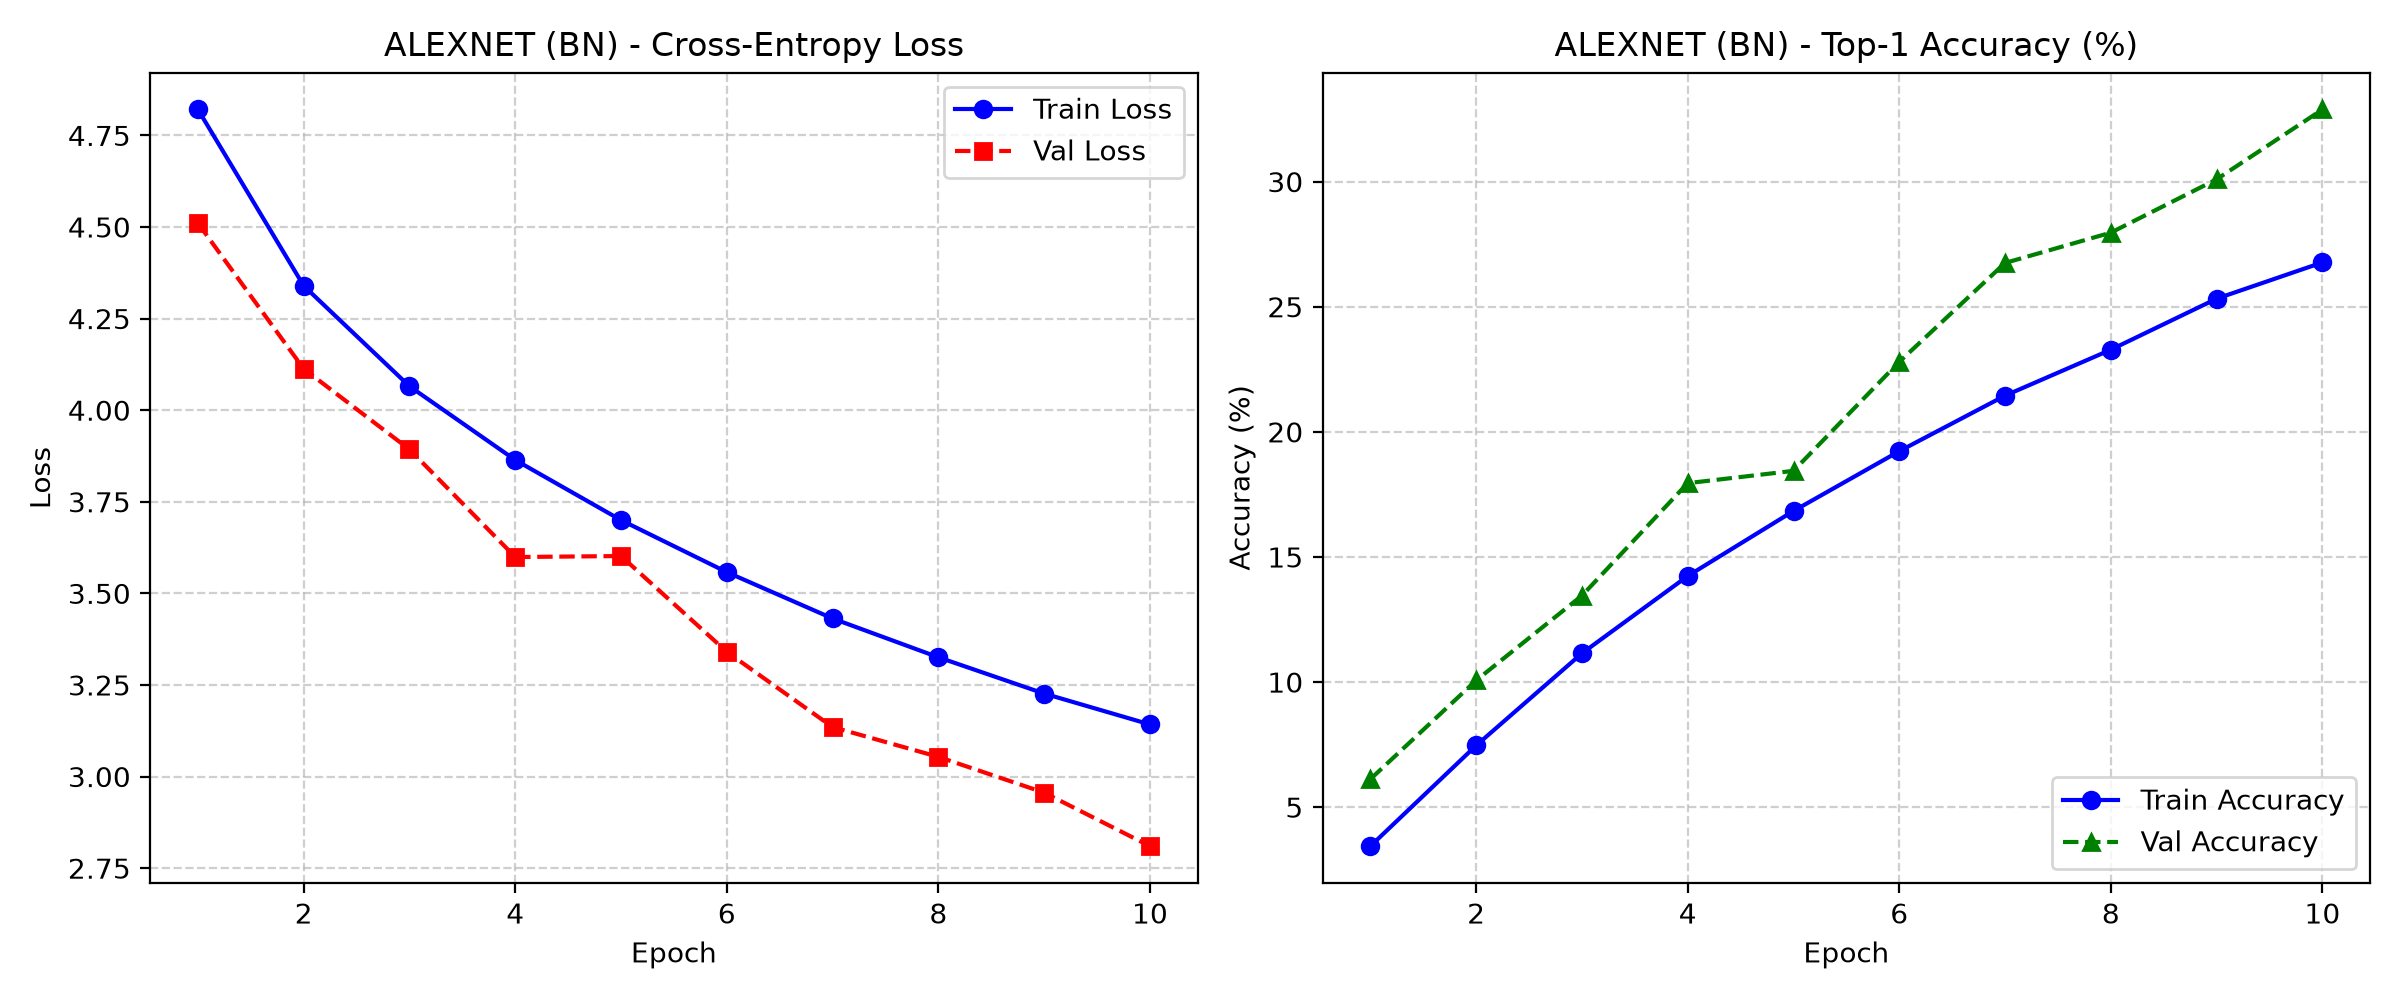
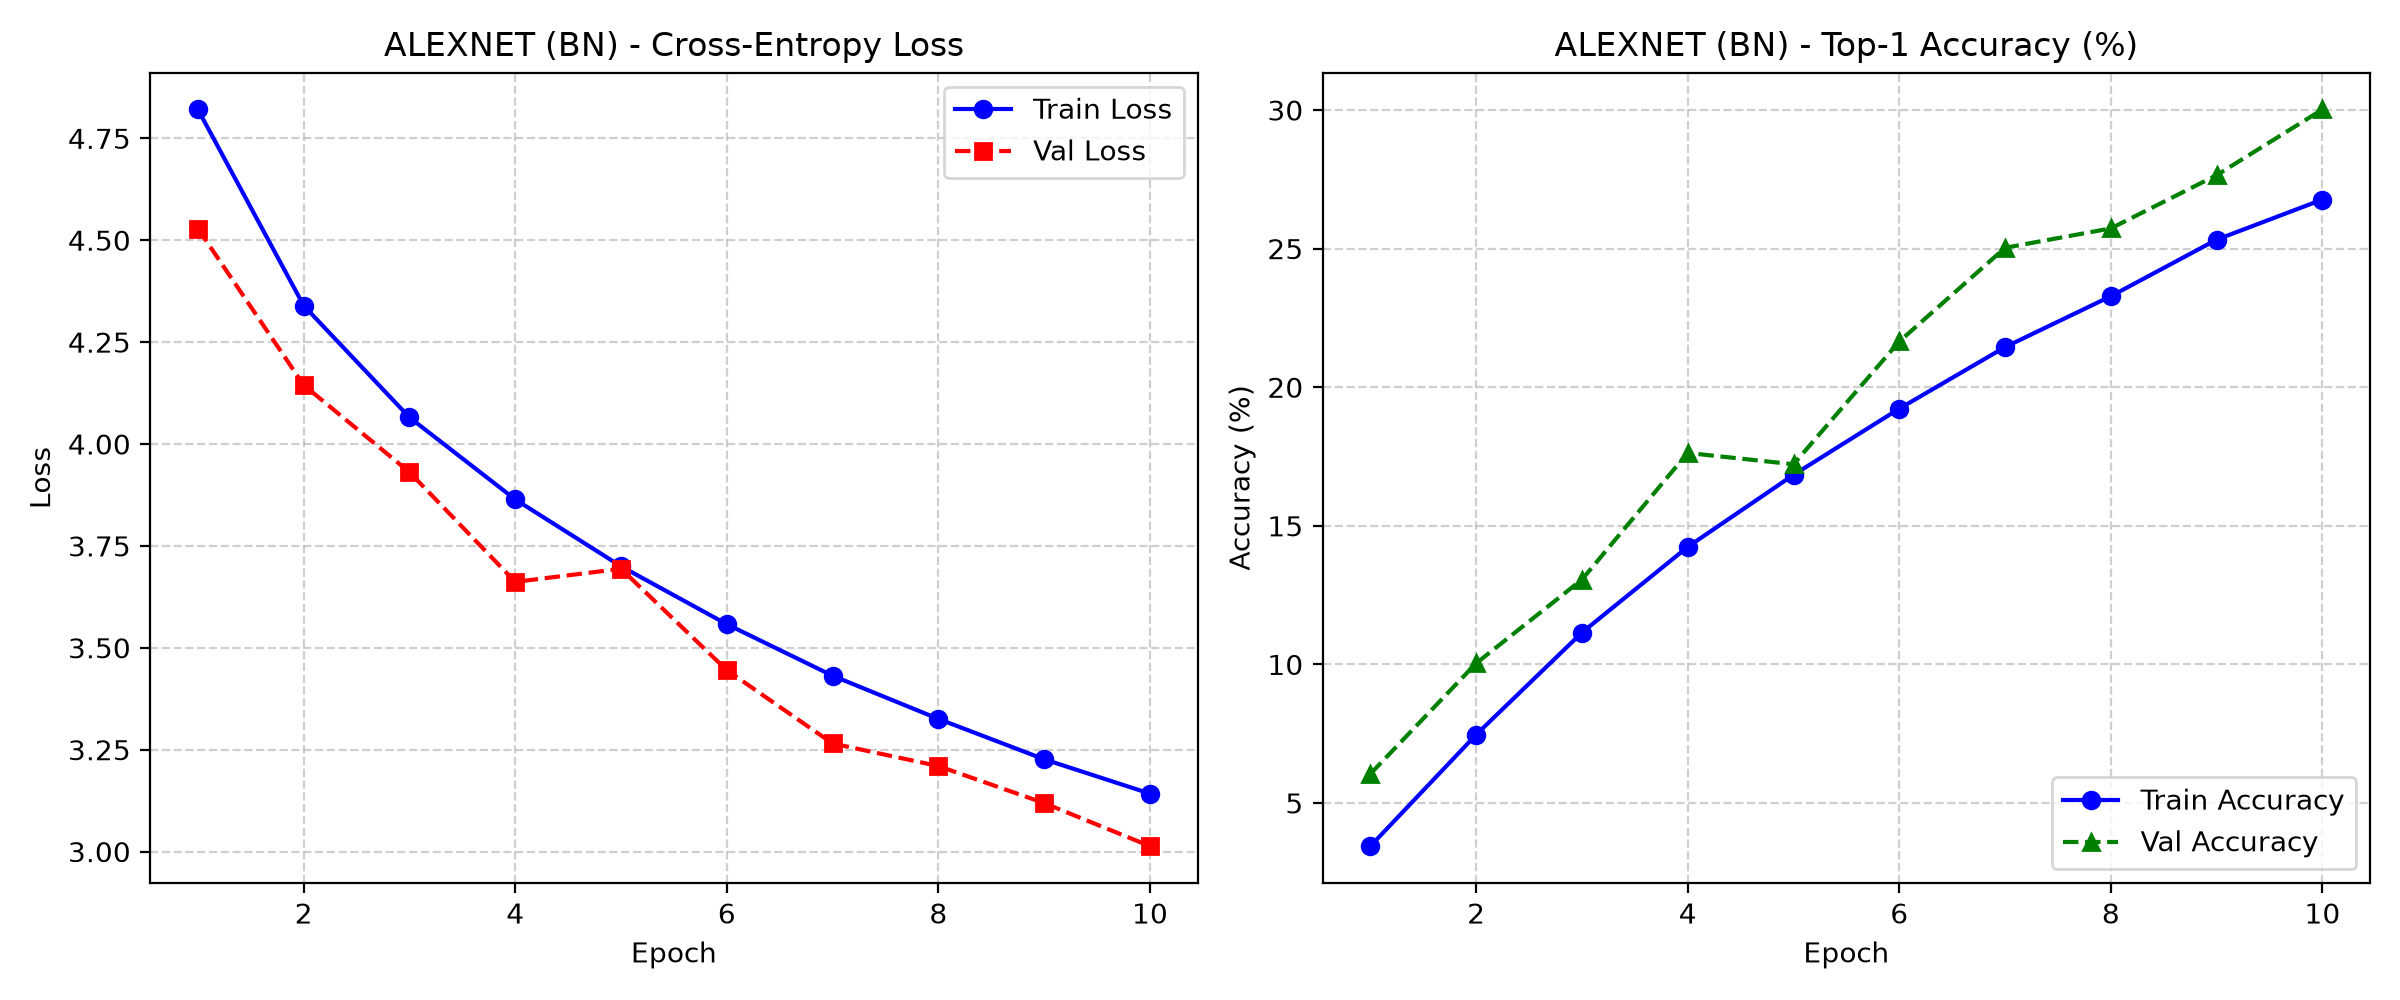
Fix the Tiny ImageNet validation split and add master ablation plots, run commands, and the repo link.

diff --git a/utils/dataset.py b/utils/dataset.py
@@ -6,8 +6,9 @@ import os
 import urllib.request
 import zipfile
 import torch
-from torch.utils.data import DataLoader
+from torch.utils.data import DataLoader, Dataset
 from torchvision.datasets import CIFAR10, ImageFolder
+from torchvision.datasets.folder import default_loader
 from .transforms import get_train_transforms, get_test_transforms
 
 CIFAR10_CLASSES = [
@@ -16,6 +17,26 @@ CIFAR10_CLASSES = [
 ]
 
 TINY_IMAGENET_URL = "http://cs231n.stanford.edu/tiny-imagenet-200.zip"
+
+class TinyImageNetVal(Dataset):
+    """Tiny ImageNet val split: images/ folder labelled by val_annotations.txt."""
+    def __init__(self, val_dir: str, class_to_idx: dict, transform=None):
+        self.transform = transform
+        self.samples = []
+        with open(os.path.join(val_dir, "val_annotations.txt")) as f:
+            for line in f:
+                fname, wnid = line.split("\t")[:2]
+                self.samples.append((os.path.join(val_dir, "images", fname), class_to_idx[wnid]))
+
+    def __len__(self):
+        return len(self.samples)
+
+    def __getitem__(self, idx):
+        path, target = self.samples[idx]
+        img = default_loader(path)
+        if self.transform is not None:
+            img = self.transform(img)
+        return img, target
 
 def download_and_extract_tiny_imagenet(data_dir: str = "./data"):
     target_dir = os.path.join(data_dir, "tiny-imagenet-200")
@@ -64,7 +85,8 @@ def get_dataloaders(
         val_tf   = get_test_transforms("tiny_imagenet", target_size=target_size)
 
         train_set = ImageFolder(root=train_dir, transform=train_tf)
-        val_set   = ImageFolder(root=train_dir, transform=val_tf)
+        # Use the held-out val split (flat folder + annotations file), not the training images
+        val_set   = TinyImageNetVal(os.path.join(tiny_dir, "val"), train_set.class_to_idx, transform=val_tf)
         num_classes = 200
         classes = train_set.classes
 
